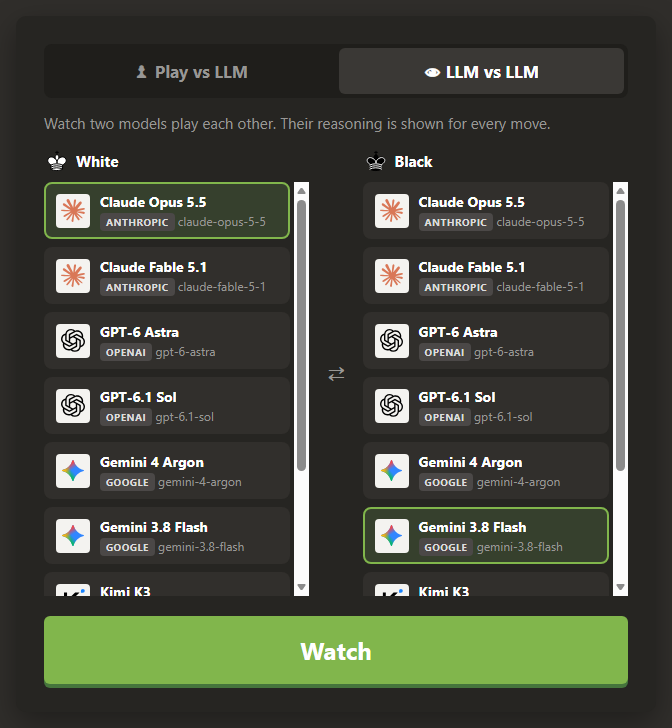
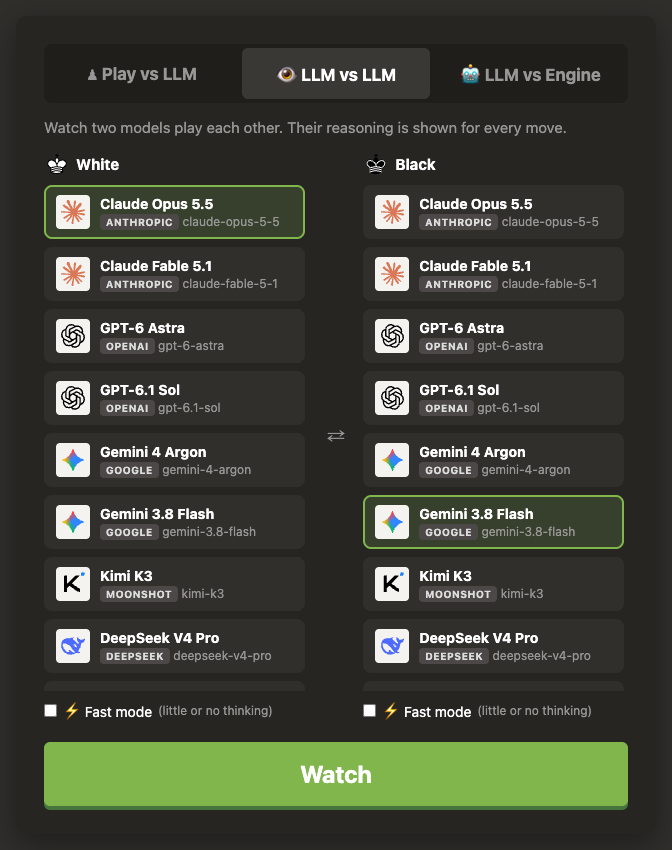
README: show the LLM vs Engine tab and describe engine games
The lobby screenshot now shows the three tabs, next to a new one of the LLM
vs Engine tab, and the intro, Play vs LLM, engine analysis and config texts
mention Stockfish games.

Changed region(s): [[0.0625, 0.0604, 0.9375, 0.967]]

diff --git a/README.md b/README.md
@@ -1,20 +1,21 @@
 # Chess LLM
 
-A chess.com-style web app where you play chess against large language models, or watch two of them play each other.
+A chess.com-style web app where you play chess against large language models, watch two of them play each other, or pit one against Stockfish at a strength you choose.
 
 ![Claude Opus 5.5 vs Gemini 3.8 Flash in LLM vs LLM mode, paused after 12. g5 of a Sicilian English Attack, with the Stockfish eval bar and move labels](docs/screenshot.png)
 
 *A real game: Claude Opus 5.5 (White) vs Gemini 3.8 Flash (Black), paused after move 12. Each move shows the model's reason and Stockfish's verdict; the eval bar, best line and accuracy are on the side.*
 
-- **Play vs LLM**: pick an opponent and a side (white / black / random). Each move comes with a short reason from the model, hidden by default; toggle it with the 💬 Reasons button.
+- **Play vs LLM**: pick an opponent (an LLM, or Stockfish) and a side (white / black / random). Each move comes with a short reason from the model, hidden by default; toggle it with the 💬 Reasons button.
 - **LLM vs LLM**: pick a model for each side (the same model may play both) and watch. Reasons are always shown. Pause / resume at any time (a paused game stays paused when you reopen it); while paused, ⏭ Step (or the → key) plays one move at a time.
 - **LLM vs Engine**: its own lobby tab. Pick a model, a Stockfish strength (about 1350 to 2500 Elo, plus full strength) and the model's side, and watch how it holds up against a known level. Stockfish is also in the Play vs LLM list, so you can play it yourself. It runs on the server, needs no API key and costs nothing.
 - **Draw offers**: from move 30, each side may offer a draw once every 10 moves: LLMs with a `DRAW: offer` line, Stockfish when the position is equal, you with the ½ Offer draw button (the offer goes with your next move). The opponent accepts, or declines by playing a move. Moves that came with an offer are marked `(=)`.
-- **Engine analysis** (📈 Engine): a Stockfish eval bar, the engine's best line, and every move labelled Best / Excellent / Good / Inaccuracy / Mistake / Blunder with an accuracy score per side, like chess.com's game review. Live in LLM vs LLM; against an LLM it appears once the game is over. Stockfish runs in your browser, so it costs nothing and needs no setup.
+- **Engine analysis** (📈 Engine): a Stockfish eval bar, the engine's best line, and every move labelled Best / Excellent / Good / Inaccuracy / Mistake / Blunder with an accuracy score per side, like chess.com's game review. Live when watching (LLM vs LLM, LLM vs Engine); when you play, it appears once the game is over. Stockfish runs in your browser, so it costs nothing and needs no setup.
 - **Fast mode** (⚡ checkbox under each model pick): the model thinks little or not at all, so moves take seconds instead of minutes, at the cost of weaker play. Thinking is turned off where the provider allows it (DeepSeek, Kimi, Gemini 4 Argon), otherwise set to the lowest effort (Claude, GPT, Gemini 3.8 Flash).
 
 <p align="center">
-  <img src="docs/llm-vs-llm.png" alt="LLM vs LLM setup: Claude Opus 5.5 selected for White, Gemini 3.8 Flash for Black" width="480">
+  <img src="docs/llm-vs-llm.png" alt="LLM vs LLM setup: Claude Opus 5.5 selected for White, Gemini 3.8 Flash for Black" width="400">
+  <img src="docs/llm-vs-engine.png" alt="LLM vs Engine setup: Claude Opus 5.5 playing White against Stockfish 2000" width="400">
 </p>
 
 Any model behind the **Anthropic Messages API** or an **OpenAI-compatible Chat Completions API** works: Claude, GPT, Gemini, DeepSeek, Kimi, OpenRouter, or local models through Ollama / LM Studio / vLLM.
@@ -171,7 +172,7 @@ Games are saved in the `data/` folder (one JSON file per game), so they survive 
 
 ## Configuring opponents
 
-`config.json` holds the list of LLMs shown in the main menu:
+`config.json` holds the LLMs and Stockfish levels shown in the lobby:
 
 ```json
 {
